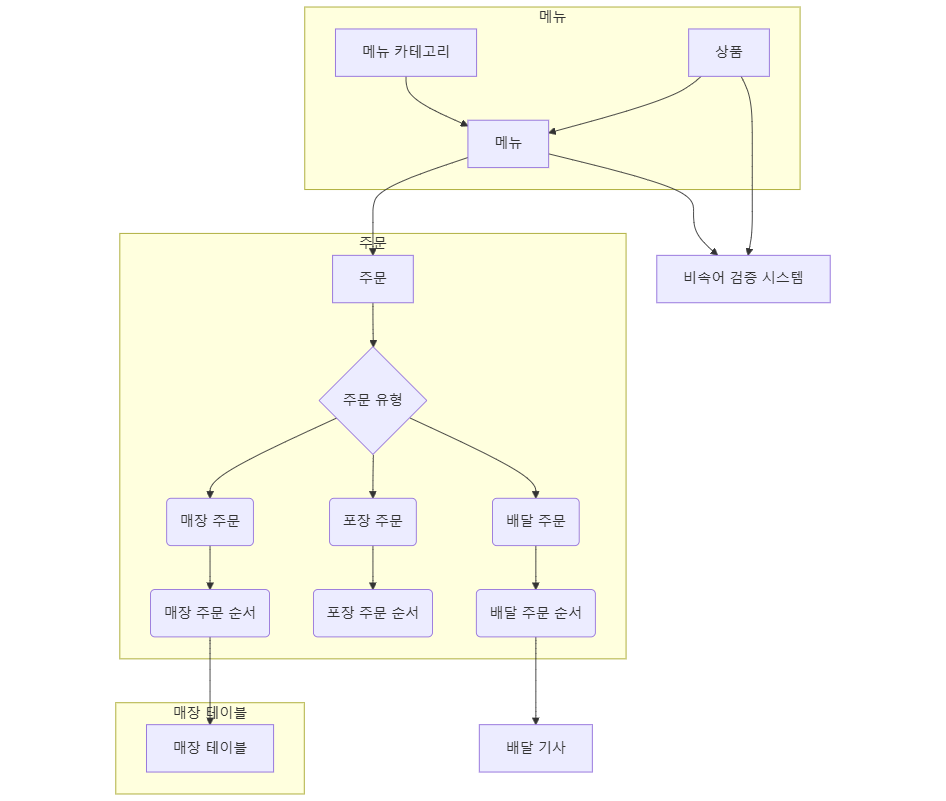
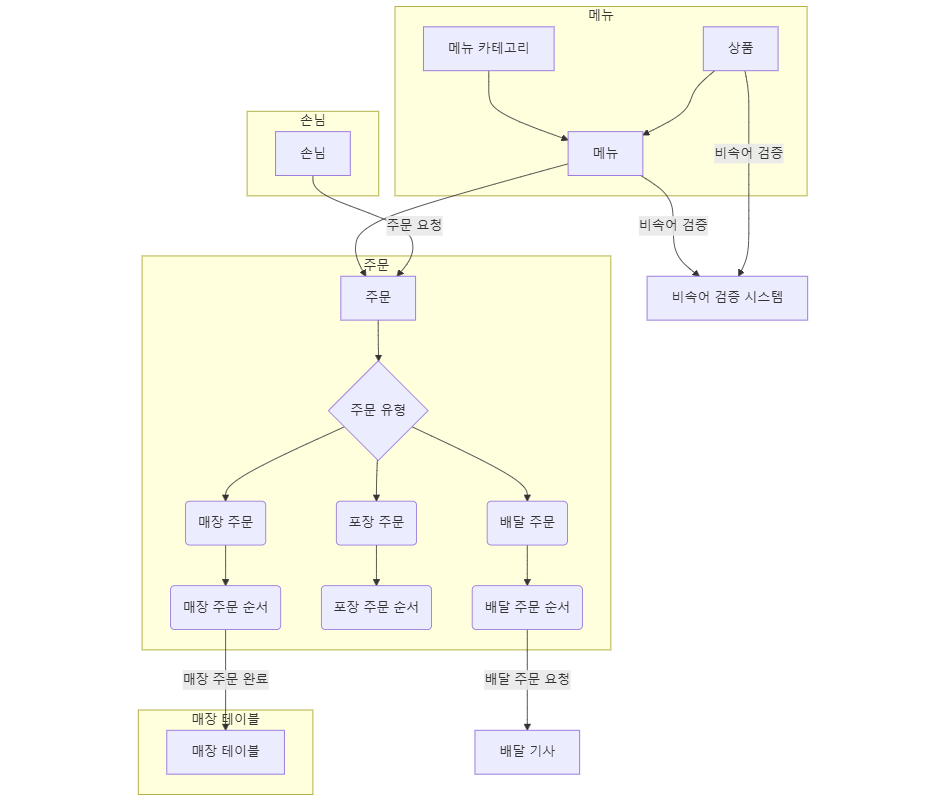
Doc(pos) : 모델링 - mermaid를 통한 모델링 전개도 생성

Changed region(s): [[0.1226, 0.0, 0.8584, 0.9988], [0.3066, 0.5306, 0.3372, 0.5618]]

diff --git a/README.md b/README.md
@@ -259,19 +259,20 @@ docker compose -p kitchenpos up -d
 
 #### 3. 배달 주문
 
-- `배달 주문`은 `배달 주문`의 흐름을 확인할 수 있는 `배달 순서`를 가진다.
+- `배달 주문`은 `배달 주문`의 흐름을 확인할 수 있는 `배달 주문 순서`를 가진다.
+- `배달 주문`은 이전 `배달 주문 순서`를 확인한다.
 - `배달 주문`은 `배달 기사`를 통해 배달을 진행한다.
 
 #### 4. 포장 주문
 
-- `포장 주문`은 `포장 주문`의 흐름을 확인할 수 있는 `포장 순서`를 가진다.
-- `포장 주문`은 이전 `포장 순서`를 확인한다.
+- `포장 주문`은 `포장 주문`의 흐름을 확인할 수 있는 `포장 주문 순서`를 가진다.
+- `포장 주문`은 이전 `포장 주문 순서`를 확인한다.
 
 #### 5. 매장 주문
 
-- `매장 주문`은 `매장 주문`의 흐름을 확인할 수 있는 `매장 순서`를 가진다.
+- `매장 주문`은 `매장 주문`의 흐름을 확인할 수 있는 `매장 주문 순서`를 가진다.
 - `매장 주문`은 `손님`이 `앉을 수` 있는 `매장 테이블`을 가진다.
-- `매장 주문`은 이전 `매장 순서`를 확인한다.
+- `매장 주문`은 이전 `매장 주문 순서`를 확인한다.
 
 #### 6. 매장 테이블
 
